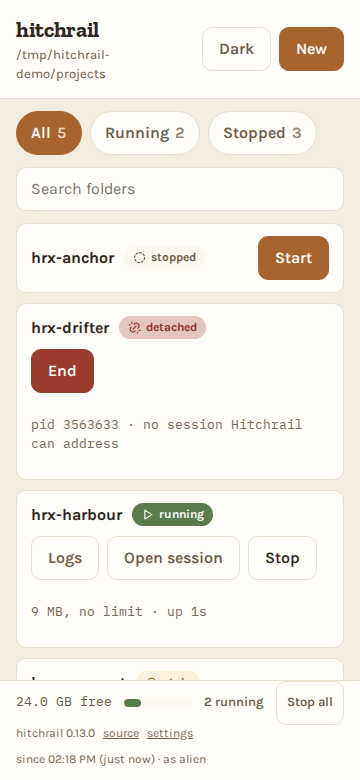
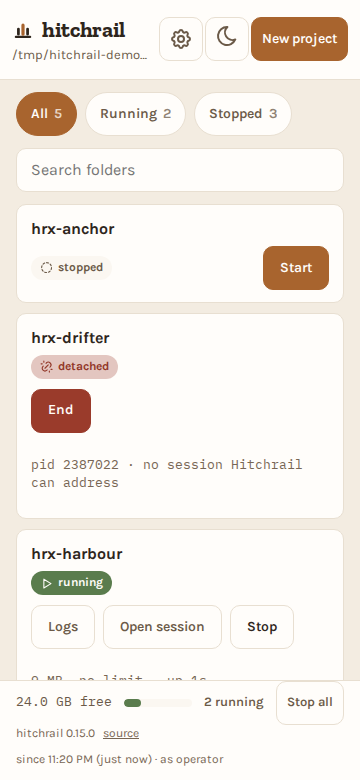
release: 0.15.0, with the screenshots retaken on the new bar and the neutral account
Claude-Session: https://claude.ai/code/session_01HSucEKrxHUvK286SUVx4S9

diff --git a/CHANGELOG.md b/CHANGELOG.md
@@ -30,7 +30,7 @@ workflow's own script so it fails locally instead.
 
 While the version is `0.y.z`, a breaking change may ship as a MINOR.
 
-## Unreleased
+## 0.15.0 - 2026-10-08
 
 Nothing to do on upgrade, unless a script reads the plugin update's record or
 the output of `hitchrail update-plugins`: see Changed.
